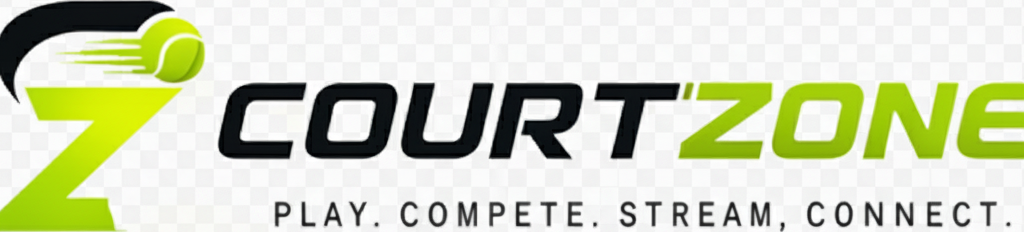
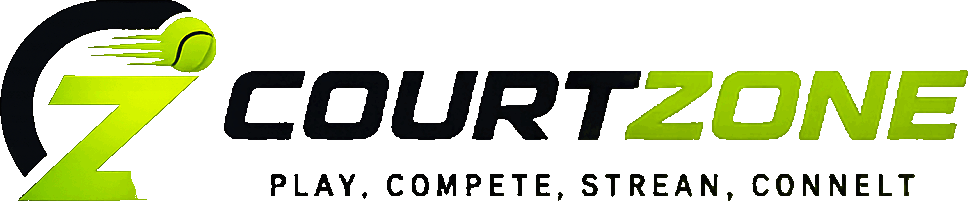
Reverted to commit 4aea40b49369348312e5fedd892412dc0fb1f1f2

Changed region(s): [[0.0, 0.0, 1.0, 1.0], [0.2479, 0.8657, 0.9917, 1.0], [0.6198, 0.4776, 0.6508, 0.5075]]

diff --git a/src/routes/index.tsx b/src/routes/index.tsx
@@ -1,13 +1,19 @@
+// @ts-nocheck
 import { createFileRoute } from '@tanstack/react-router';
-import { useEffect } from 'react';
+import { Landing } from '@/pages/public';
+import { useCzNavigate } from '@/lib/use-cz-navigate';
+import { TweaksPanel } from '@/components/courtzone/TweaksPanel';
 
 export const Route = createFileRoute('/')({
-  component: LandingRedirect,
+  component: IndexPage,
 });
 
-function LandingRedirect() {
-  useEffect(() => {
-    window.location.replace('/landing.html');
-  }, []);
-  return null;
+function IndexPage() {
+  const navigate = useCzNavigate();
+  return (
+    <div className="public-shell">
+      <Landing navigate={navigate} />
+      <TweaksPanel />
+    </div>
+  );
 }

diff --git a/src/routeTree.gen.ts b/src/routeTree.gen.ts
@@ -865,13 +865,3 @@ const rootRouteChildren: RootRouteChildren = {
 export const routeTree = rootRouteImport
   ._addFileChildren(rootRouteChildren)
   ._addFileTypes<FileRouteTypes>()
-
-import type { getRouter } from './router.tsx'
-import type { startInstance } from './start.ts'
-declare module '@tanstack/react-start' {
-  interface Register {
-    ssr: true
-    router: Awaited<ReturnType<typeof getRouter>>
-    config: Awaited<ReturnType<typeof startInstance.getOptions>>
-  }
-}

diff --git a/src/styles.css b/src/styles.css
@@ -196,7 +196,7 @@ img { display: block; max-width: 100%; }
   width: 168px; height: 36px;
   display: block;
   background: transparent;
-  background-image: url('./assets/courtzone-horizontal-white.png');
+  background-image: url('./assets/courtzone-horizontal.png');
   background-size: contain;
   background-repeat: no-repeat;
   background-position: left center;
